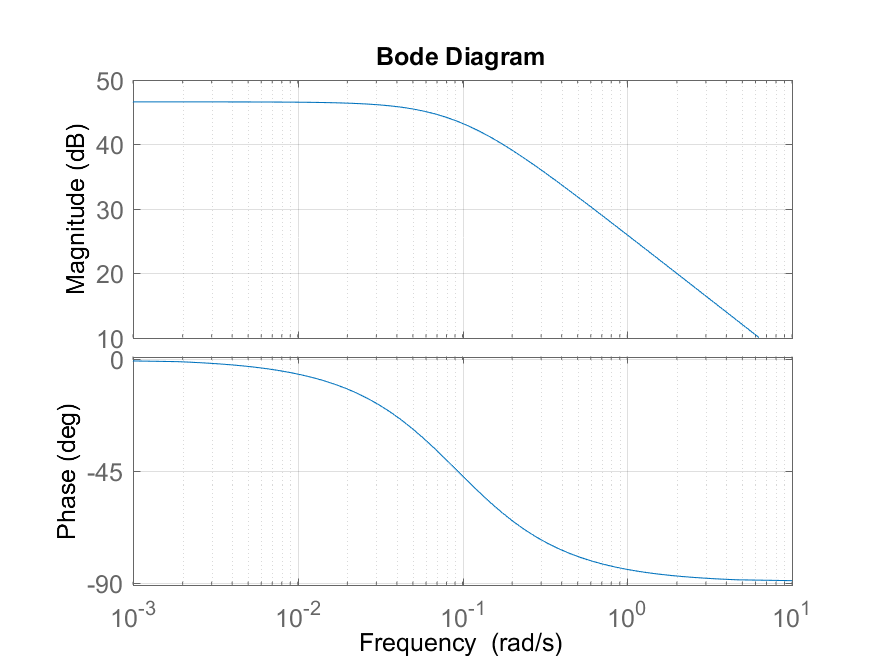
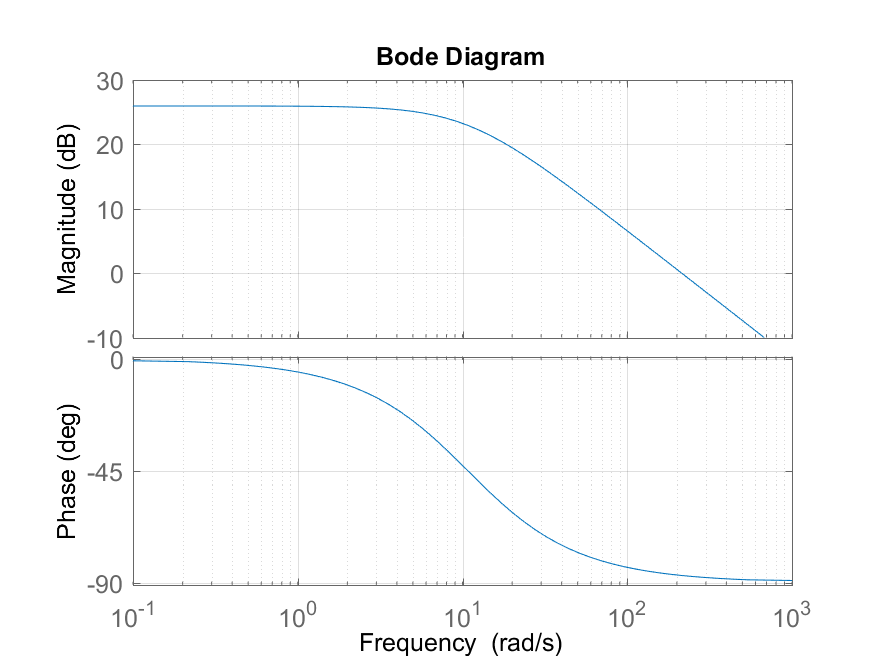
small fix, den was inverted

diff --git a/Trabalho_1/resposta_freq_motor.m b/Trabalho_1/resposta_freq_motor.m
@@ -5,7 +5,7 @@ jm = 221e-7;
 la = 0.82e-3;
 ra = 10.6;
 num = kt;
-den = [0 ke*kt ra*jm];
+den = [ra*jm ke*kt];
 
 H = tf(num,den)
 figure;
